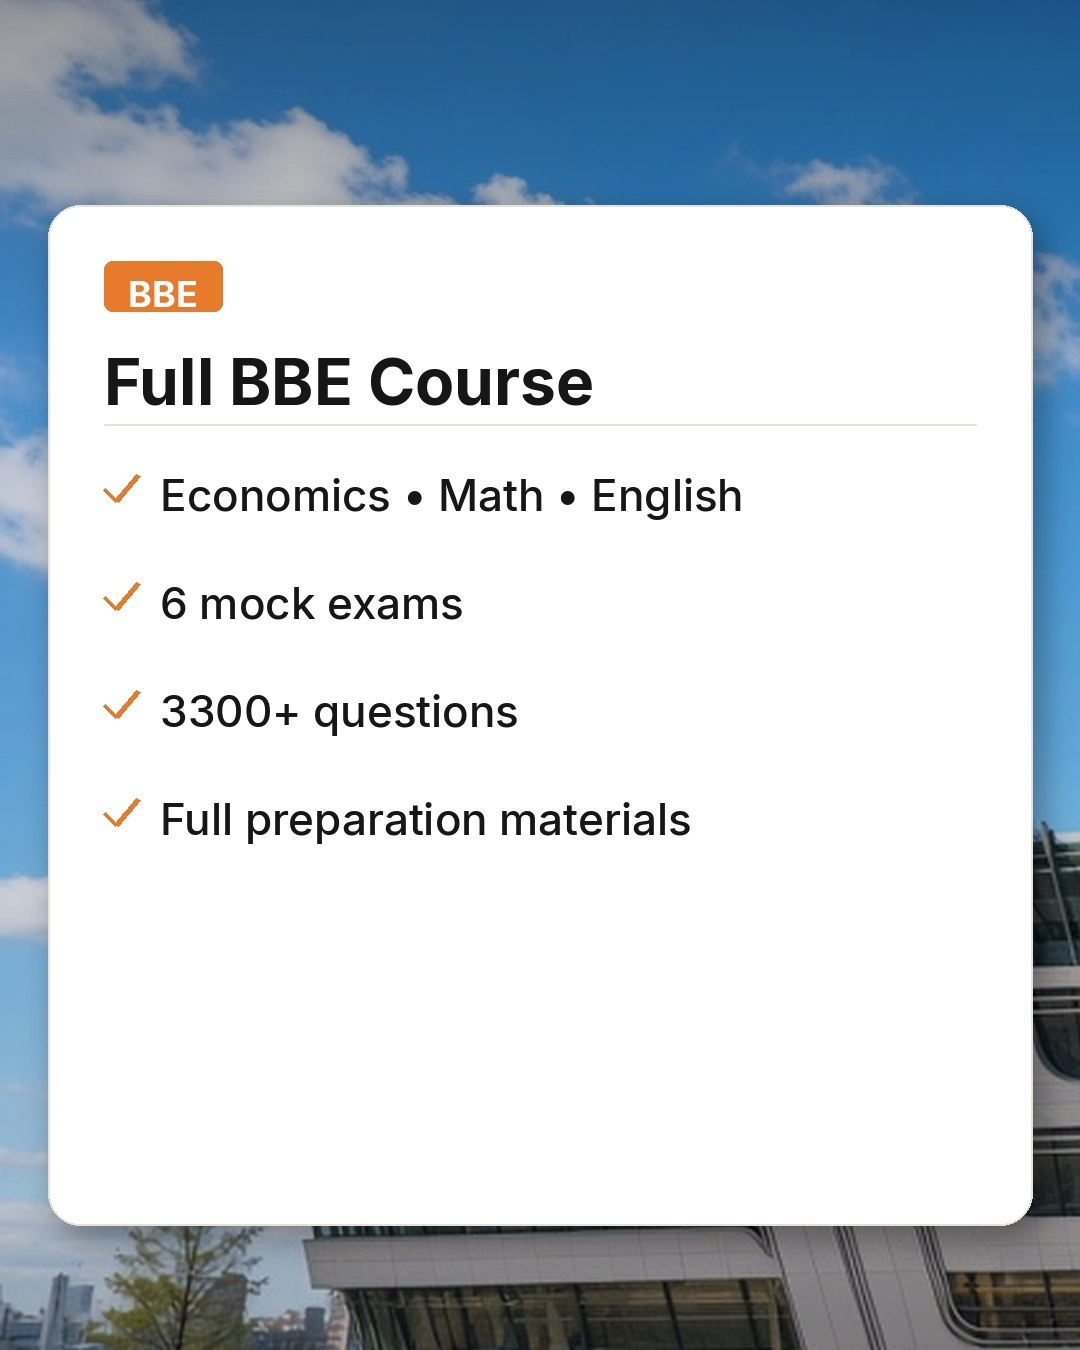
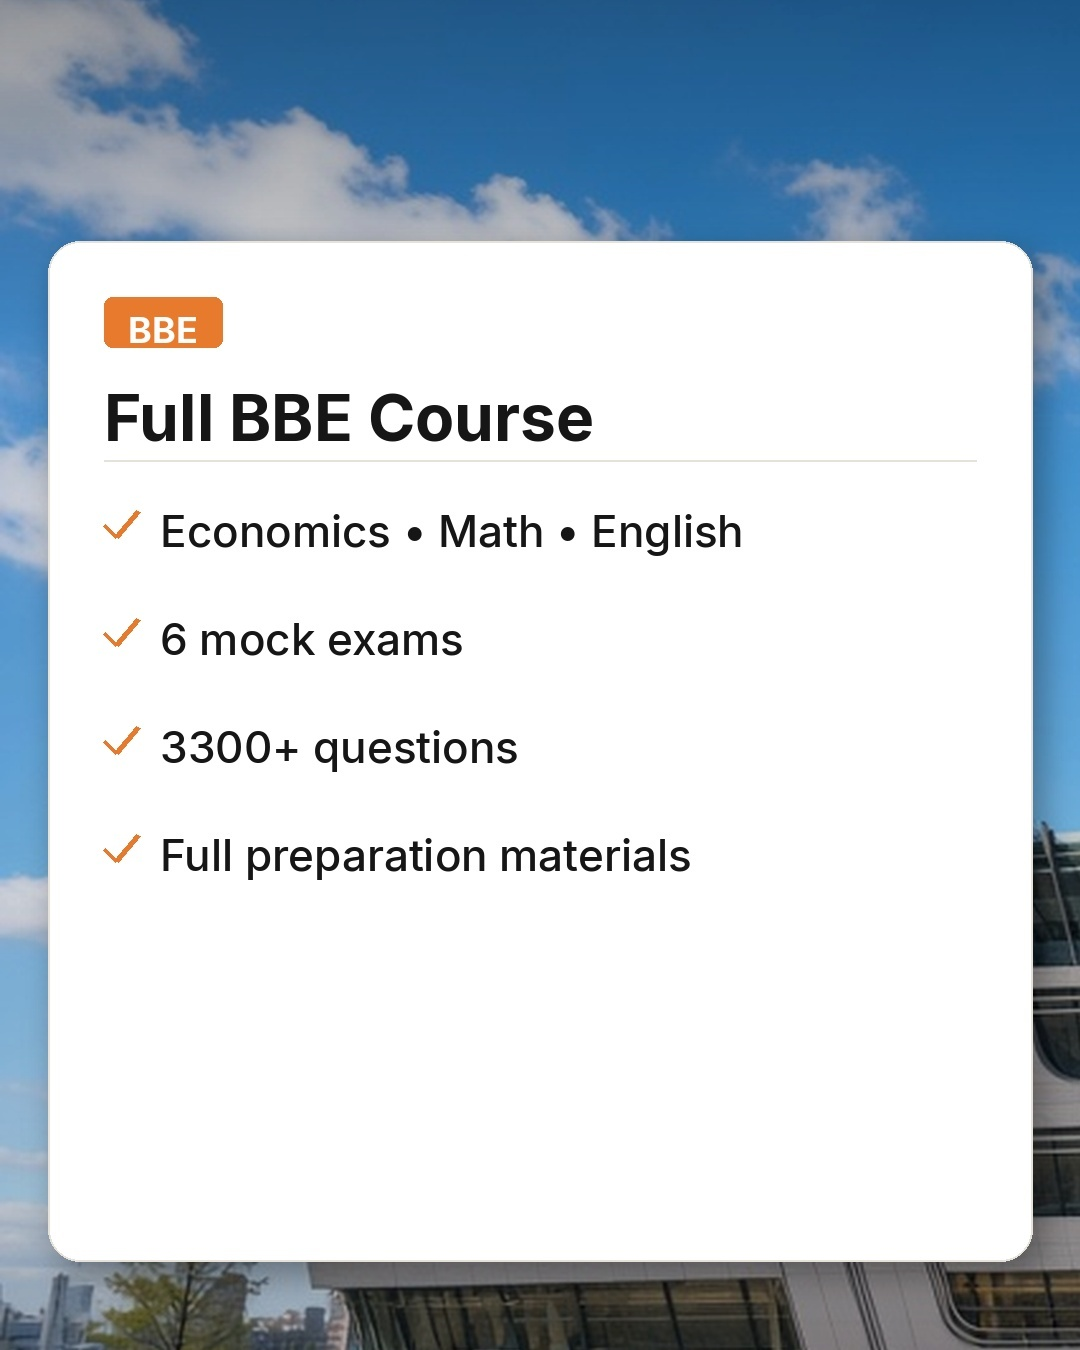
Nudge cards down for optical vertical center.

Changed region(s): [[0.0306, 0.1244, 0.9778, 0.4044], [0.0917, 0.4356, 0.6417, 0.6533], [0.0306, 0.9022, 0.9778, 0.9644]]

diff --git a/scripts/make_instagram_pinned_banner.py b/scripts/make_instagram_pinned_banner.py
@@ -39,7 +39,9 @@ FOOTER_BAND = 48
 CARD_H = 1020
 _free = TILE_H - HEADER_BAND - FOOTER_BAND - CARD_H  # space to split
 GAP_AROUND = _free // 2
-MARGIN_TOP = HEADER_BAND + GAP_AROUND
+# Nudge cards slightly down — header text makes equal gaps look top-heavy
+NUDGE_DOWN = 36
+MARGIN_TOP = HEADER_BAND + GAP_AROUND + NUDGE_DOWN
 MARGIN_BOTTOM = TILE_H - MARGIN_TOP - CARD_H
 CARD_PAD = 56  # inner padding
 GAP_TAG_TITLE = 32
